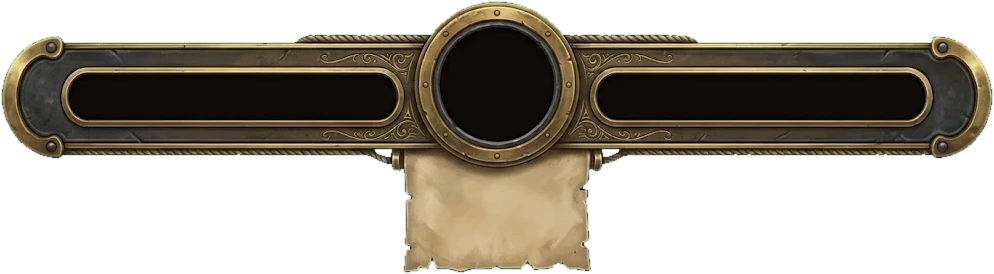
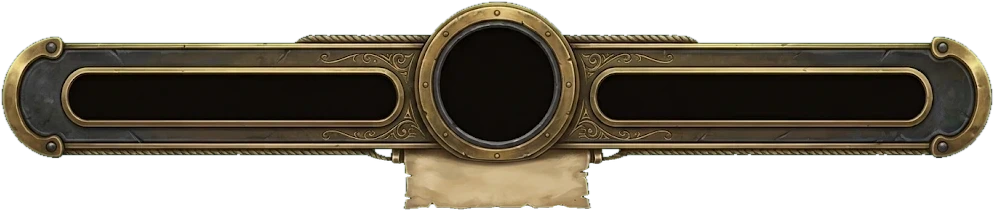
Üst bar: SP parşömeni kısaltıldı (#487)
Claude-Session: https://claude.ai/code/session_01Mc9BhaSSsCCxzjNzAUDeqJ

diff --git a/src/cap-plate.css b/src/cap-plate.css
@@ -214,3 +214,10 @@ html #toast{top:120px!important}
 .cap-plate.tb .status-line{padding:0 4px!important}
 .cap-plate.tb .tb-lab{position:absolute;top:27%;height:16%;width:4.6%;display:grid;place-items:center;font:800 11px Cinzel,serif;font-style:normal;color:#f3d496;text-shadow:0 1px 2px #000,0 0 3px #000}
 .cap-plate.tb .tb-lab.l{left:2.1%}.cap-plate.tb .tb-lab.r{right:2.1%}
+/* Kısaltılmış parşömen (994x210) */
+html .cap-plate.tb{height:101px!important}
+.cap-plate.tb .tb-tp,.cap-plate.tb .tb-hp{top:35%;height:21.5%}
+.cap-plate.tb .tb-lab{top:35%;height:21.5%}
+.cap-plate.tb .tb-lv{top:14.6%;height:51.7%}
+.cap-plate.tb .tb-sp{top:79%;height:15%}
+html #toast{top:104px!important}
